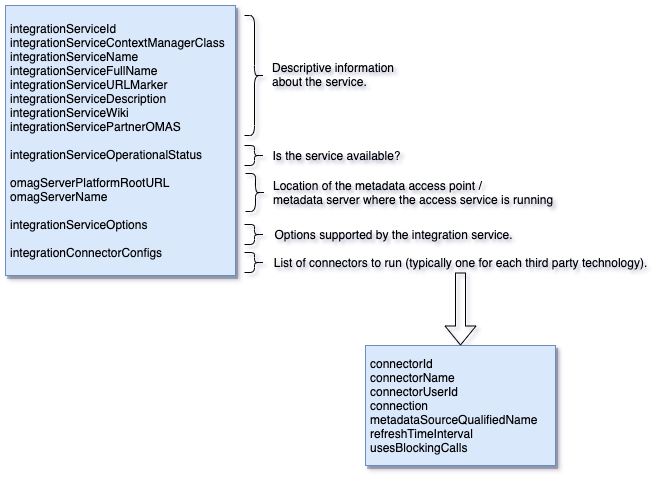
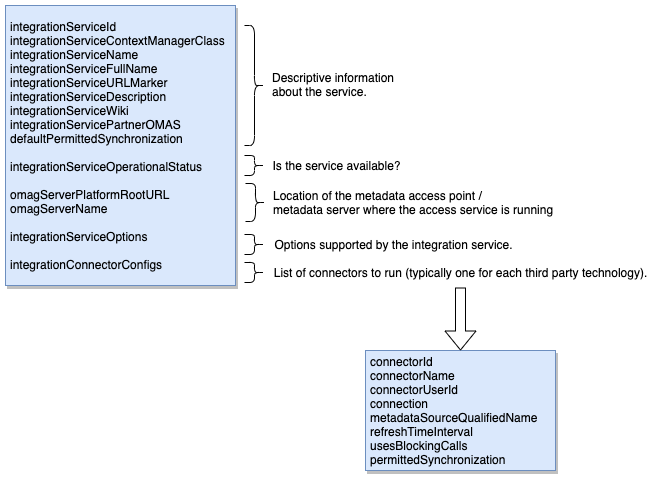
Add PermittedSynchronization to Integration Daemon

Changed region(s): [[0.0, 0.0, 0.9985, 0.9937]]

diff --git a/open-metadata-implementation/governance-servers/integration-daemon-services/integration-daemon-services-registration/src/main/java/org/odpi/openmetadata/governanceservers/integrationdaemonservices/registration/IntegrationServiceDescription.java b/open-metadata-implementation/governance-servers/integration-daemon-services/integration-daemon-services-registration/src/main/java/org/odpi/openmetadata/governanceservers/integrationdaemonservices/registration/IntegrationServiceDescription.java
@@ -2,6 +2,8 @@
 /* Copyright Contributors to the ODPi Egeria project. */
 package org.odpi.openmetadata.governanceservers.integrationdaemonservices.registration;
 
+import org.odpi.openmetadata.adminservices.configuration.properties.PermittedSynchronization;
+
 import java.io.Serializable;
 
 /**
@@ -15,7 +17,8 @@ public enum IntegrationServiceDescription implements Serializable
                             "catalog-integrator",
                             "Exchange metadata with third party data catalogs.",
                             "https://egeria.odpi.org/open-metadata-implementation/integration-services/catalog-integrator/",
-                            "Asset Manager OMAS"),
+                            "Asset Manager OMAS",
+                            PermittedSynchronization.BOTH_DIRECTIONS),
 
     DATABASE_INTEGRATOR_OMIS     (4004,
                                   "Database Integrator",
@@ -23,7 +26,8 @@ public enum IntegrationServiceDescription implements Serializable
                                   "database-integrator",
                                   "Extract metadata such as schema, tables and columns from database managers.",
                                   "https://egeria.odpi.org/open-metadata-implementation/integration-services/database-integrator/",
-                                  "Data Manager OMAS"),
+                                  "Data Manager OMAS",
+                                  PermittedSynchronization.FROM_THIRD_PARTY),
 
     FILES_INTEGRATOR_OMIS(4005,
                           "Files Integrator",
@@ -31,7 +35,8 @@ public enum IntegrationServiceDescription implements Serializable
                           "files-integrator",
                           "Extract metadata about files stored in a file system or file manager.",
                           "https://egeria.odpi.org/open-metadata-implementation/integration-services/files-integrator/",
-                          "Data Manager OMAS"),
+                          "Data Manager OMAS",
+                          PermittedSynchronization.FROM_THIRD_PARTY),
 
     ORGANIZATION_INTEGRATOR_OMIS     (4007,
                                       "Organization Integrator",
@@ -39,18 +44,20 @@ public enum IntegrationServiceDescription implements Serializable
                                       "organization-integrator",
                                       "Load information about the teams and people in an organization and return collaboration activity.",
                                       "https://egeria.odpi.org/open-metadata-implementation/integration-services/organization-integrator/",
-                                      "Community Profile OMAS"),
+                                      "Community Profile OMAS",
+                                      PermittedSynchronization.FROM_THIRD_PARTY),
     ;
 
     private static final long     serialVersionUID    = 1L;
 
-    private int    integrationServiceCode;
-    private String integrationServiceName;
-    private String integrationServiceFullName;
-    private String integrationServiceURLMarker;
-    private String integrationServiceDescription;
-    private String integrationServiceWiki;
-    private String integrationServicePartnerOMAS;
+    private int                      integrationServiceCode;
+    private String                   integrationServiceName;
+    private String                   integrationServiceFullName;
+    private String                   integrationServiceURLMarker;
+    private String                   integrationServiceDescription;
+    private String                   integrationServiceWiki;
+    private String                   integrationServicePartnerOMAS;
+    private PermittedSynchronization defaultPermittedSynchronization;
 
 
     /**
@@ -64,24 +71,26 @@ public enum IntegrationServiceDescription implements Serializable
      * @param integrationServiceWiki wiki page for the integration service for this integration service
      * @param integrationServicePartnerOMAS name of the OMAS that is partnered with this integration service
      */
-    IntegrationServiceDescription(int    integrationServiceCode,
-                                  String integrationServiceName,
-                                  String integrationServiceFullName,
-                                  String integrationServiceURLMarker,
-                                  String integrationServiceDescription,
-                                  String integrationServiceWiki,
-                                  String integrationServicePartnerOMAS)
+    IntegrationServiceDescription(int                      integrationServiceCode,
+                                  String                   integrationServiceName,
+                                  String                   integrationServiceFullName,
+                                  String                   integrationServiceURLMarker,
+                                  String                   integrationServiceDescription,
+                                  String                   integrationServiceWiki,
+                                  String                   integrationServicePartnerOMAS,
+                                  PermittedSynchronization defaultPermittedSynchronization)
     {
         /*
          * Save the values supplied
          */
-        this.integrationServiceCode        = integrationServiceCode;
-        this.integrationServiceName        = integrationServiceName;
-        this.integrationServiceFullName    = integrationServiceFullName;
-        this.integrationServiceURLMarker   = integrationServiceURLMarker;
-        this.integrationServiceDescription = integrationServiceDescription;
-        this.integrationServiceWiki        = integrationServiceWiki;
-        this.integrationServicePartnerOMAS = integrationServicePartnerOMAS;
+        this.integrationServiceCode          = integrationServiceCode;
+        this.integrationServiceName          = integrationServiceName;
+        this.integrationServiceFullName      = integrationServiceFullName;
+        this.integrationServiceURLMarker     = integrationServiceURLMarker;
+        this.integrationServiceDescription   = integrationServiceDescription;
+        this.integrationServiceWiki          = integrationServiceWiki;
+        this.integrationServicePartnerOMAS   = integrationServicePartnerOMAS;
+        this.defaultPermittedSynchronization = defaultPermittedSynchronization;
     }
 
 
@@ -159,5 +168,17 @@ public enum IntegrationServiceDescription implements Serializable
     public String getIntegrationServicePartnerOMAS()
     {
         return integrationServicePartnerOMAS;
+    }
+
+
+    /**
+     * Return the default value for permitted synchronization that should be set up for the integration connectors
+     * as they are configured.
+     *
+     * @return enum default
+     */
+    public PermittedSynchronization getDefaultPermittedSynchronization()
+    {
+        return defaultPermittedSynchronization;
     }
 }

diff --git a/open-metadata-implementation/governance-servers/integration-daemon-services/integration-daemon-services-server/src/main/java/org/odpi/openmetadata/governanceservers/integrationdaemonservices/server/IntegrationDaemonOperationalServices.java b/open-metadata-implementation/governance-servers/integration-daemon-services/integration-daemon-services-server/src/main/java/org/odpi/openmetadata/governanceservers/integrationdaemonservices/server/IntegrationDaemonOperationalServices.java
@@ -99,32 +99,46 @@ public class IntegrationDaemonOperationalServices
 
             for (IntegrationServiceConfig integrationServiceConfig : configuration)
             {
-                String                           partnerOMASRootURL          = this.getPartnerOMASRootURL(integrationServiceConfig);
-                String                           partnerOMASServerName       = this.getPartnerOMASServerName(integrationServiceConfig);
-                String                           integrationServiceURLMarker = this.getServiceURLMarker(integrationServiceConfig);
-                IntegrationContextManager        contextManager              = this.getContextManager(integrationServiceConfig);
-
-                contextManager.initializeContextManager(partnerOMASServerName,
-                                                        partnerOMASRootURL,
-                                                        localServerUserId,
-                                                        localServerPassword,
-                                                        maxPageSize,
-                                                        auditLog);
-
-                contextManager.createClients();
-
-                IntegrationServiceHandler  integrationServiceHandler = new IntegrationServiceHandler(localServerName,
-                                                                                                     integrationServiceConfig,
-                                                                                                     contextManager,
-                                                                                                     auditLog);
-
-                List<IntegrationConnectorHandler>  serviceConnectorHandlers = integrationServiceHandler.initialize();
-                if (serviceConnectorHandlers != null)
+                if (integrationServiceConfig != null)
                 {
-                    daemonConnectorHandlers.addAll(serviceConnectorHandlers);
-                }
+                    String                    partnerOMASRootURL          = this.getPartnerOMASRootURL(integrationServiceConfig);
+                    String                    partnerOMASServerName       = this.getPartnerOMASServerName(integrationServiceConfig);
+                    String                    integrationServiceURLMarker = this.getServiceURLMarker(integrationServiceConfig);
+                    IntegrationContextManager contextManager              = this.getContextManager(integrationServiceConfig);
 
-                integrationServiceHandlerMap.put(integrationServiceURLMarker, integrationServiceHandler);
+                    if (integrationServiceConfig.getDefaultPermittedSynchronization() == null)
+                    {
+                        auditLog.logMessage(actionDescription,
+                                            IntegrationDaemonServicesAuditCode.NO_PERMITTED_SYNCHRONIZATION.getMessageDefinition(localServerName),
+                                            integrationServiceConfig.toString());
+
+                        throw new OMAGConfigurationErrorException(IntegrationDaemonServicesErrorCode.NO_PERMITTED_SYNCHRONIZATION.getMessageDefinition(localServerName),
+                                                                  this.getClass().getName(),
+                                                                  methodName);
+                    }
+
+                    contextManager.initializeContextManager(partnerOMASServerName,
+                                                            partnerOMASRootURL,
+                                                            localServerUserId,
+                                                            localServerPassword,
+                                                            maxPageSize,
+                                                            auditLog);
+
+                    contextManager.createClients();
+
+                    IntegrationServiceHandler integrationServiceHandler = new IntegrationServiceHandler(localServerName,
+                                                                                                        integrationServiceConfig,
+                                                                                                        contextManager,
+                                                                                                        auditLog);
+
+                    List<IntegrationConnectorHandler> serviceConnectorHandlers = integrationServiceHandler.initialize();
+                    if (serviceConnectorHandlers != null)
+                    {
+                        daemonConnectorHandlers.addAll(serviceConnectorHandlers);
+                    }
+
+                    integrationServiceHandlerMap.put(integrationServiceURLMarker, integrationServiceHandler);
+                }
             }
 
             /*
@@ -149,6 +163,10 @@ public class IntegrationDaemonOperationalServices
         catch (InvalidParameterException error)
         {
             throw new OMAGConfigurationErrorException(error.getReportedErrorMessage(), error);
+        }
+        catch (OMAGConfigurationErrorException error)
+        {
+            throw error;
         }
         catch (Throwable error)
         {

diff --git a/open-metadata-implementation/governance-servers/integration-daemon-services/integration-daemon-services-server/src/main/java/org/odpi/openmetadata/governanceservers/integrationdaemonservices/handlers/IntegrationConnectorHandler.java b/open-metadata-implementation/governance-servers/integration-daemon-services/integration-daemon-services-server/src/main/java/org/odpi/openmetadata/governanceservers/integrationdaemonservices/handlers/IntegrationConnectorHandler.java
@@ -5,6 +5,7 @@ package org.odpi.openmetadata.governanceservers.integrationdaemonservices.handle
 
 
 import org.odpi.openmetadata.adminservices.configuration.properties.IntegrationConnectorConfig;
+import org.odpi.openmetadata.adminservices.configuration.properties.PermittedSynchronization;
 import org.odpi.openmetadata.frameworks.auditlog.AuditLog;
 import org.odpi.openmetadata.frameworks.connectors.Connector;
 import org.odpi.openmetadata.frameworks.connectors.ConnectorBroker;
@@ -34,9 +35,12 @@ public class IntegrationConnectorHandler implements Serializable
      * These values are set in the constructor and do not change.
      */
     private String                     integrationServiceFullName;
+    private Map<String, Object>        integrationServiceOptions;
     private String                     integrationDaemonName;
+    private String                     integrationConnectorId;
     private String                     integrationConnectorName;
     private String                     metadataSourceQualifiedName;
+    private PermittedSynchronization   permittedSynchronization;
     private Connection                 connection;
     private boolean                    needDedicatedThread;
     private long                       minSecondsBetweenRefresh;
@@ -61,12 +65,14 @@ public class IntegrationConnectorHandler implements Serializable
      *
      * @param integrationConnectorConfig  the configuration for this connector
      * @param integrationServiceFullName full name of the integration service - used for messages
+     * @param integrationServiceOptions options from the integration service configuration
      * @param integrationDaemonName name of the integration daemon - used for messages
      * @param contextManager the specialized context manager ofr this connector's integration service
      * @param auditLog logging destination
      */
     IntegrationConnectorHandler(IntegrationConnectorConfig integrationConnectorConfig,
                                 String                     integrationServiceFullName,
+                                Map<String, Object>        integrationServiceOptions,
                                 String                     integrationDaemonName,
                                 IntegrationContextManager  contextManager,
                                 AuditLog                   auditLog)
@@ -74,12 +80,15 @@ public class IntegrationConnectorHandler implements Serializable
         final String actionDescription = "Initializing integration connector";
 
         this.integrationServiceFullName  = integrationServiceFullName;
+        this.integrationServiceOptions   = integrationServiceOptions;
         this.integrationDaemonName       = integrationDaemonName;
+        this.integrationConnectorId      = integrationConnectorConfig.getConnectorId();
         this.integrationConnectorName    = integrationConnectorConfig.getConnectorName();
         this.metadataSourceQualifiedName = integrationConnectorConfig.getMetadataSourceQualifiedName();
         this.minSecondsBetweenRefresh    = integrationConnectorConfig.getRefreshTimeInterval();
         this.connection                  = integrationConnectorConfig.getConnection();
         this.needDedicatedThread         = integrationConnectorConfig.getUsesBlockingCalls();
+        this.permittedSynchronization    = integrationConnectorConfig.getPermittedSynchronization();
         this.contextManager              = contextManager;
         this.auditLog                    = auditLog;
 
@@ -212,7 +221,8 @@ public class IntegrationConnectorHandler implements Serializable
         auditLog.logMessage(actionDescription,
                             IntegrationDaemonServicesAuditCode.INTEGRATION_CONNECTOR_INITIALIZING.getMessageDefinition(integrationConnectorName,
                                                                                                                        integrationServiceFullName,
-                                                                                                                       integrationDaemonName));
+                                                                                                                       integrationDaemonName,
+                                                                                                                       permittedSynchronization.getName()));
 
         Connector genericConnector = null;
 
@@ -224,7 +234,12 @@ public class IntegrationConnectorHandler implements Serializable
 
             this.updateStatus(IntegrationConnectorStatus.INITIALIZED);
 
-            contextManager.setContext(integrationConnectorName, metadataSourceQualifiedName, integrationConnector);
+            contextManager.setContext(integrationConnectorId,
+                                      integrationConnectorName,
+                                      metadataSourceQualifiedName,
+                                      integrationConnector,
+                                      permittedSynchronization,
+                                      integrationServiceOptions);
 
             if (needDedicatedThread)
             {

diff --git a/open-metadata-implementation/governance-servers/integration-daemon-services/integration-daemon-services-api/src/main/java/org/odpi/openmetadata/governanceservers/integrationdaemonservices/contextmanager/IntegrationContextManager.java b/open-metadata-implementation/governance-servers/integration-daemon-services/integration-daemon-services-api/src/main/java/org/odpi/openmetadata/governanceservers/integrationdaemonservices/contextmanager/IntegrationContextManager.java
@@ -3,12 +3,14 @@
 
 package org.odpi.openmetadata.governanceservers.integrationdaemonservices.contextmanager;
 
+import org.odpi.openmetadata.adminservices.configuration.properties.PermittedSynchronization;
 import org.odpi.openmetadata.frameworks.auditlog.AuditLog;
-import org.odpi.openmetadata.frameworks.connectors.ffdc.ConnectorCheckedException;
 import org.odpi.openmetadata.frameworks.connectors.ffdc.InvalidParameterException;
 import org.odpi.openmetadata.frameworks.connectors.ffdc.PropertyServerException;
 import org.odpi.openmetadata.frameworks.connectors.ffdc.UserNotAuthorizedException;
 import org.odpi.openmetadata.governanceservers.integrationdaemonservices.connectors.IntegrationConnector;
+
+import java.util.Map;
 
 /**
  * IntegrationContextManager is the base class for the context manager that is implemented
@@ -68,18 +70,23 @@ public abstract class IntegrationContextManager
     /**
      * Set up the context in the supplied connector. This is called between initialize() and start() on the connector.
      *
+     * @param connectorId unique identifier of the connector (used to configure the event listener)
      * @param connectorName name of connector from config
      * @param metadataSourceQualifiedName unique name of the software server capability that represents the metadata source.
      * @param integrationConnector connector created from connection integration service configuration
+     * @param permittedSynchronization controls the direction(s) that metadata is allowed to flow
+     * @param serviceOptions options from the integration service's configuration
+     *
      * @throws InvalidParameterException the connector is not of the correct type
      * @throws UserNotAuthorizedException user not authorized to issue this request
      * @throws PropertyServerException problem accessing the property server
-     * @throws ConnectorCheckedException the connector is reporting an error
      */
-    public abstract void setContext(String                connectorName,
-                                    String                metadataSourceQualifiedName,
-                                    IntegrationConnector  integrationConnector) throws InvalidParameterException,
-                                                                                       UserNotAuthorizedException,
-                                                                                       PropertyServerException,
-                                                                                       ConnectorCheckedException;
+    public abstract void setContext(String                   connectorId,
+                                    String                   connectorName,
+                                    String                   metadataSourceQualifiedName,
+                                    IntegrationConnector     integrationConnector,
+                                    PermittedSynchronization permittedSynchronization,
+                                    Map<String, Object>      serviceOptions) throws InvalidParameterException,
+                                                                                    UserNotAuthorizedException,
+                                                                                    PropertyServerException;
 }

diff --git a/open-metadata-implementation/governance-servers/integration-daemon-services/integration-daemon-services-api/src/main/java/org/odpi/openmetadata/governanceservers/integrationdaemonservices/ffdc/IntegrationDaemonServicesAuditCode.java b/open-metadata-implementation/governance-servers/integration-daemon-services/integration-daemon-services-api/src/main/java/org/odpi/openmetadata/governanceservers/integrationdaemonservices/ffdc/IntegrationDaemonServicesAuditCode.java
@@ -81,7 +81,7 @@ public enum IntegrationDaemonServicesAuditCode implements AuditLogMessageSet
 
     INTEGRATION_CONNECTOR_INITIALIZING("INTEGRATION-DAEMON-SERVICES-0008",
                       OMRSAuditLogRecordSeverity.STARTUP,
-                      "A new integration connector named {0} is initializing in integration service {1} running in integration daemon {2}",
+                      "A new integration connector named {0} is initializing in integration service {1} running in integration daemon {2}, permitted synchronization is: {3}",
                       "The integration service is initializing an integration connector using the information in the configured " +
                                                "connection.",
                       "Verify that this connector is successfully initialized."),
@@ -126,6 +126,13 @@ public enum IntegrationDaemonServicesAuditCode implements AuditLogMessageSet
                        "The integration daemon services has completed initialization.",
                        "Verify that all of the configured integration services, and their connectors within have successfully started and" +
                                "are able to connect both to their third party technology and their partner OMAS."),
+
+    NO_PERMITTED_SYNCHRONIZATION("INTEGRATION-DAEMON-SERVICES-0014",
+                       OMRSAuditLogRecordSeverity.STARTUP,
+                       "The integration service {0} does not have a default permitted synchronization value set.",
+                       "The integration daemon is not able to initialize one of the configured integration because its defaultPermittedSynchronization value is null.  " +
+                               "The integration daemon shuts down and this error is reported to the caller as a configuration exception.",
+                       "Update the configuration for the integration service to include a value for the default permitted synchronization."),
 
     SERVER_SHUTTING_DOWN("INTEGRATION-DAEMON-SERVICES-0020",
                     OMRSAuditLogRecordSeverity.SHUTDOWN,

diff --git a/open-metadata-implementation/governance-servers/integration-daemon-services/integration-daemon-services-server/src/main/java/org/odpi/openmetadata/governanceservers/integrationdaemonservices/handlers/IntegrationServiceHandler.java b/open-metadata-implementation/governance-servers/integration-daemon-services/integration-daemon-services-server/src/main/java/org/odpi/openmetadata/governanceservers/integrationdaemonservices/handlers/IntegrationServiceHandler.java
@@ -73,8 +73,14 @@ public class IntegrationServiceHandler
             {
                 if (connectorConfig != null)
                 {
+                    if (connectorConfig.getPermittedSynchronization() == null)
+                    {
+                        connectorConfig.setPermittedSynchronization(serviceConfig.getDefaultPermittedSynchronization());
+                    }
+
                     IntegrationConnectorHandler connectorHandler = new IntegrationConnectorHandler(connectorConfig,
                                                                                                    serviceConfig.getIntegrationServiceFullName(),
+                                                                                                   serviceConfig.getIntegrationServiceOptions(),
                                                                                                    localServerName,
                                                                                                    contextManager,
                                                                                                    auditLog);

diff --git a/open-metadata-implementation/governance-servers/integration-daemon-services/integration-daemon-services-api/src/main/java/org/odpi/openmetadata/governanceservers/integrationdaemonservices/ffdc/IntegrationDaemonServicesErrorCode.java b/open-metadata-implementation/governance-servers/integration-daemon-services/integration-daemon-services-api/src/main/java/org/odpi/openmetadata/governanceservers/integrationdaemonservices/ffdc/IntegrationDaemonServicesErrorCode.java
@@ -114,6 +114,12 @@ public enum IntegrationDaemonServicesErrorCode implements ExceptionMessageSet
                          "The integration service fails to start and this causes the hosting integration daemon to fail.",
                          "Add a suitable value for this configuration property in the integration service configuration."),
 
+    NO_PERMITTED_SYNCHRONIZATION( 400,"INTEGRATION-DAEMON-SERVICES-400-012",
+                                 "The integration service {0} does not have a default permitted synchronization value set.",
+                                 "The integration daemon is not able to initialize one of the configured integration because its defaultPermittedSynchronization value is null.  " +
+                                 "The integration daemon shuts down, this error is reported to the caller and a similar message is written to the audit log.",
+                                  "Update the configuration for the integration service to include a value for the default permitted synchronization."),
+
 
     /*
      * Invalid use of statistics methods.

diff --git a/open-metadata-implementation/governance-servers/integration-daemon-services/integration-daemon-services-registration/src/main/java/org/odpi/openmetadata/governanceservers/integrationdaemonservices/registration/IntegrationServiceRegistry.java b/open-metadata-implementation/governance-servers/integration-daemon-services/integration-daemon-services-registration/src/main/java/org/odpi/openmetadata/governanceservers/integrationdaemonservices/registration/IntegrationServiceRegistry.java
@@ -52,6 +52,7 @@ public class IntegrationServiceRegistry
             config.setIntegrationServiceDescription(serviceDescription.getIntegrationServiceDescription());
             config.setIntegrationServiceWiki(serviceDescription.getIntegrationServiceWiki());
             config.setIntegrationServicePartnerOMAS(serviceDescription.getIntegrationServicePartnerOMAS());
+            config.setDefaultPermittedSynchronization(serviceDescription.getDefaultPermittedSynchronization());
 
             config.setIntegrationServiceOperationalStatus(ServiceOperationalStatus.ENABLED);
             config.setIntegrationServiceContextManagerClass(contextManagerClass);

diff --git a/open-metadata-implementation/governance-servers/integration-daemon-services/docs/integration-connector.md b/open-metadata-implementation/governance-servers/integration-daemon-services/docs/integration-connector.md
@@ -9,7 +9,7 @@ It is hosted in an [integration service](../../../integration-services)
 which is, in turn, running in an [Integration Daemon](../../../admin-services/docs/concepts/integration-daemon.md).
  
 The integration connectors can:
- * Listen on a blocking call for the third party technology to send a notification.</li>
+ * Listen on a blocking call for the third party technology to send a notification.
  * Register with an external notification service that sends notifications on its own thread.
  * Register a listener with the OMAS client to act on notifications from the OMAS's Out Topic.
  * Poll the third party technology each time that the refresh() method is called.
